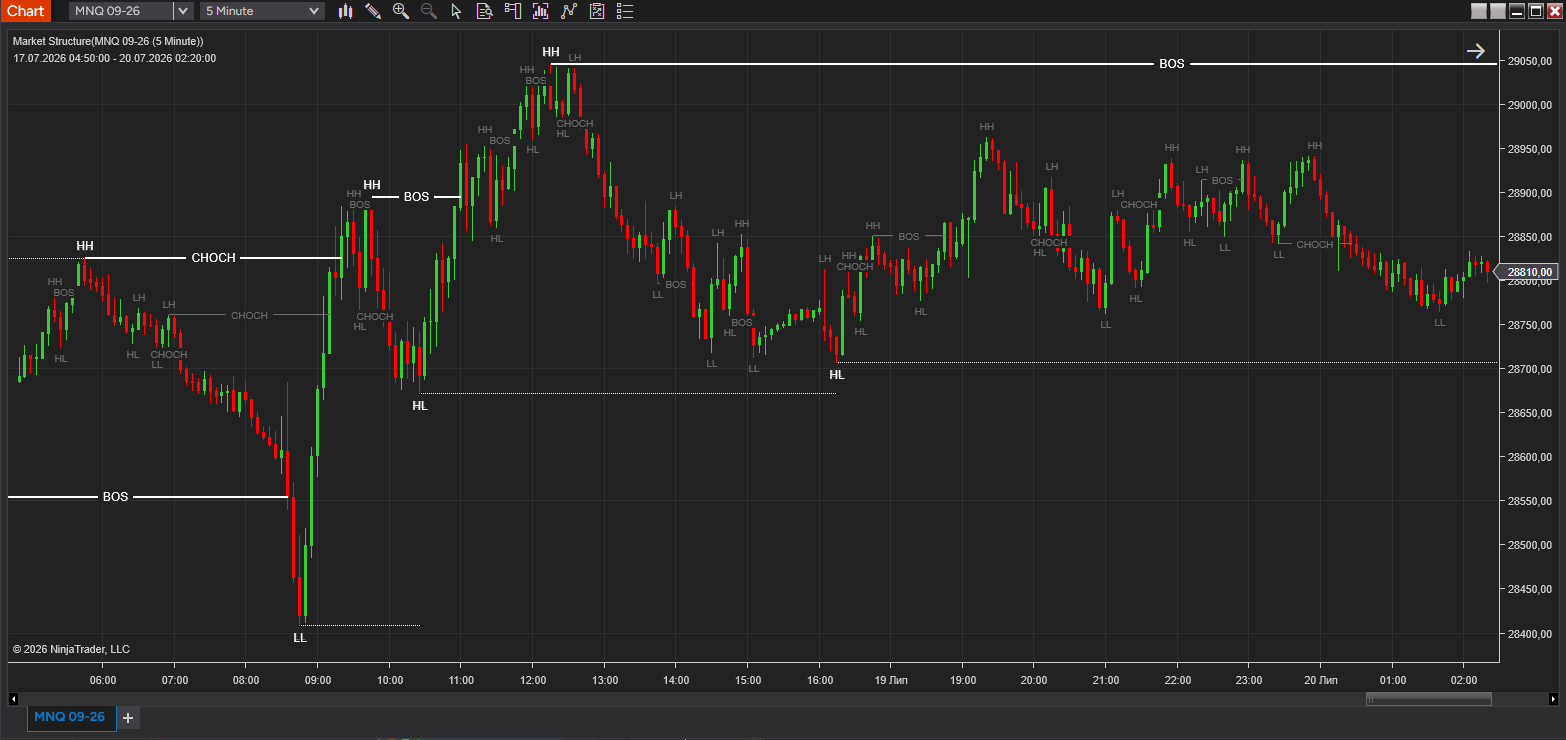
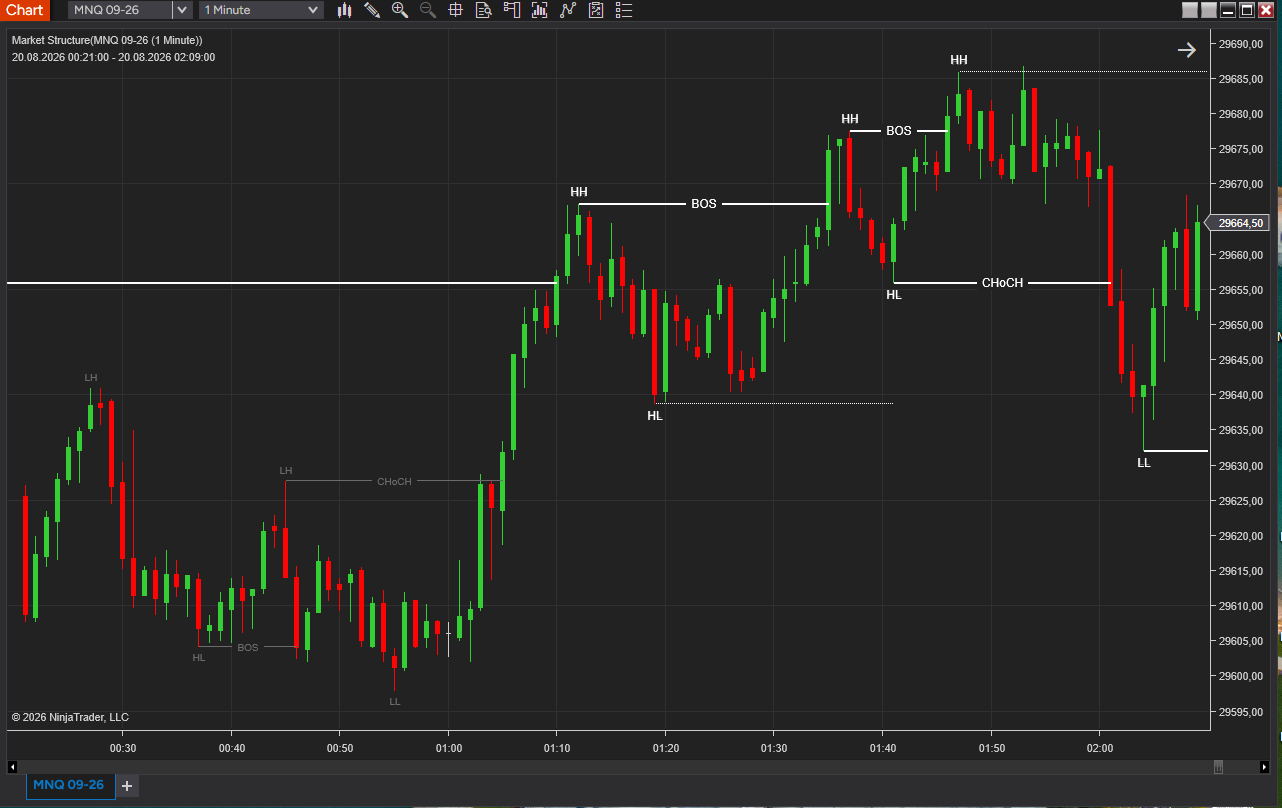
Update Market Structure: Internal/Swing terminology, Weak Swings,

diff --git a/market-structure.html b/market-structure.html
@@ -4,12 +4,12 @@
 <meta charset="UTF-8">
 <meta name="viewport" content="width=device-width, initial-scale=1.0">
 <title>Market Structure Indicator for NinjaTrader 8 | Yevhen Solod</title>
-<meta name="description" content="Market Structure indicator for NinjaTrader 8: dual-tier Minor/Major swing detection, BOS and CHoCH confirmed strictly by candle close. No ATR, no lookback, no fractals. Free 1-day trial.">
+<meta name="description" content="Market Structure indicator for NinjaTrader 8: dual-tier Internal/Swing structure detection, BOS and CHoCH confirmed strictly by candle close, Weak Swing pullback confirmation. No ATR, no lookback, no fractals. Free 1-day trial.">
 <link rel="canonical" href="https://yevhensolod.studio/market-structure.html">
 
 <meta property="og:type" content="product">
 <meta property="og:title" content="Market Structure Indicator for NinjaTrader 8">
-<meta property="og:description" content="Pure price-action BOS/CHoCH market structure, Minor + Major tiers, no repaint. Free 1-day trial.">
+<meta property="og:description" content="Pure price-action BOS/CHoCH market structure, Internal + Swing tiers, Weak Swing confirmation, no repaint. Free 1-day trial.">
 <meta property="og:image" content="https://yevhensolod.studio/og-marketstructure.png">
 <meta property="og:url" content="https://yevhensolod.studio/market-structure.html">
 <meta name="twitter:card" content="summary_large_image">
@@ -19,13 +19,14 @@
   "@context": "https://schema.org",
   "@type": "Product",
   "name": "Market Structure Indicator for NinjaTrader 8",
-  "description": "Pure price-action market structure indicator for NinjaTrader 8. Dual-tier Minor/Major swing detection with BOS and CHoCH confirmed strictly by candle close. No ATR, no lookback period, no fractals.",
+  "description": "Pure price-action market structure indicator for NinjaTrader 8. Dual-tier Internal/Swing swing detection with BOS and CHoCH confirmed strictly by candle close, plus Weak Swing pullback confirmation. No ATR, no lookback period, no fractals.",
   "image": "https://yevhensolod.studio/og-marketstructure.png",
+  "sku": "MST-NT8-69",
   "brand": { "@type": "Brand", "name": "Yevhen Solod" },
   "offers": {
     "@type": "Offer",
     "url": "https://solodyn.gumroad.com/l/marketstructure",
-    "price": "99.00",
+    "price": "69.00",
     "priceCurrency": "USD",
     "availability": "https://schema.org/InStock"
   }
@@ -43,8 +44,13 @@
     },
     {
       "@type": "Question",
-      "name": "What's the difference between Minor and Major structure?",
-      "acceptedAnswer": { "@type": "Answer", "text": "Minor is internal structure — every swing as it forms. Major filters that down to swing-level structure. Both run independently and can be toggled and styled separately." }
+      "name": "What's the difference between Internal and Swing structure?",
+      "acceptedAnswer": { "@type": "Answer", "text": "Internal is every swing as it forms, updated candle by candle. Swing filters that down to higher-level structure. Both run independently and can be toggled and styled separately." }
+    },
+    {
+      "@type": "Question",
+      "name": "What are Weak Swings?",
+      "acceptedAnswer": { "@type": "Answer", "text": "A Weak Swing is a candidate high or low that hasn't been confirmed yet — shown as a dotted line. It locks in once price pulls back against it for 3 bars." }
     },
     {
       "@type": "Question",
@@ -169,16 +175,16 @@ a:hover{opacity:.8}
 <section class="hero">
 <div class="container">
 <h1>Market Structure Indicator for NinjaTrader 8</h1>
-<p class="sub">Tracks swing highs and lows the way price actually moves — candle by candle, confirming BOS and CHoCH only when a candle closes beyond the prior level. No ATR, no fixed lookback window, no fractals.</p>
+<p class="sub">Tracks swing highs and lows the way price actually moves — candle by candle, across two independent tiers, confirming BOS and CHoCH only when a candle closes beyond the prior level. No ATR, no fixed lookback window, no fractals.</p>
 <div class="product-tags">
-<span class="tag green">Minor</span>
-<span class="tag blue">Major</span>
+<span class="tag green">Internal</span>
+<span class="tag blue">Swing</span>
 <span class="tag orange">BOS</span>
 <span class="tag purple">CHoCH</span>
+<span class="tag">Weak Swings</span>
 <span class="tag">No Repaint</span>
-<span class="tag">No ATR</span>
 </div>
-<p class="price-line">$99</p>
+<p class="price-line">$69</p>
 <div class="btn-group">
 <a href="https://solodyn.gumroad.com/l/marketstructure" class="btn btn-primary" target="_blank">Get on Gumroad</a>
 <a href="downloads/MarketStructure.zip" class="btn btn-trial" download>Try for free</a>
@@ -191,7 +197,7 @@ a:hover{opacity:.8}
 <section class="section">
 <div class="container">
 <div class="shot">
-<img src="screens/market-structure-main.png" alt="Market Structure indicator on a NinjaTrader 8 chart showing Minor and Major BOS and CHoCH labels" loading="lazy">
+<img src="screens/market-structure-main.png" alt="Market Structure indicator on a NinjaTrader 8 chart showing Internal and Swing BOS and CHoCH labels" loading="lazy">
 </div>
 </div>
 </section>
@@ -202,12 +208,12 @@ a:hover{opacity:.8}
 <div class="section-title">What it detects</div>
 <div class="features">
 <div class="feature">
-<h3>Minor (internal) structure</h3>
+<h3>Internal structure</h3>
 <p>Every swing high and low as price forms them — HH, LH, HL, LL — updated candle by candle, no repainting.</p>
 </div>
 <div class="feature">
-<h3>Major (swing) structure</h3>
-<p>Minor structure filters automatically into higher-level swing structure, so you see both the noise and the signal on the same chart.</p>
+<h3>Swing structure</h3>
+<p>Internal structure filters automatically into higher-level swing structure, so you see both the noise and the signal on the same chart.</p>
 </div>
 <div class="feature">
 <h3>BOS — Break of Structure</h3>
@@ -218,12 +224,12 @@ a:hover{opacity:.8}
 <p>Confirms a trend reversal the moment a candle closes beyond the opposing swing level.</p>
 </div>
 <div class="feature">
-<h3>No ATR, no lookback, no fractals</h3>
-<p>Structure is derived purely from price — no multiplier or period to tune, no "right" swing size to guess at.</p>
+<h3>Weak Swings</h3>
+<p>Unconfirmed swing points shown as a dotted line until a 3-bar pullback locks them in — so you're not anchoring on a swing the market hasn't committed to.</p>
 </div>
 <div class="feature">
-<h3>Fully configurable rendering</h3>
-<p>Independent font, color and line style for Minor structure, Major structure, and unconfirmed Weak Swings.</p>
+<h3>Independent alerts per tier</h3>
+<p>Separate sound alerts for Internal structure change and Swing structure change, plus fully configurable fonts, colors and line styles per tier.</p>
 </div>
 </div>
 </div>
@@ -234,8 +240,8 @@ a:hover{opacity:.8}
 <div class="container">
 <div class="section-title">Why price-action-only structure</div>
 <p>Most market structure indicators lean on ATR multipliers or fixed lookback windows to decide what counts as a swing — which means the same chart can show a different structure depending on a setting, and everything repaints as that setting gets tuned.</p>
-<p>Market Structure works the other way: a swing high or low is only ever confirmed when a candle <strong>closes</strong> beyond it. Nothing is inferred from volatility, nothing is assumed from a fixed number of bars. What you see on a closed bar does not change on a later bar.</p>
-<p>Typical uses: reading trend direction objectively without discretionary swing-drawing, spotting CHoCH reversals early, and using Minor structure as a faster-reacting layer underneath Major swing context.</p>
+<p>Market Structure works the other way: a swing high or low is only ever confirmed when a candle <strong>closes</strong> beyond it. Nothing is inferred from volatility, nothing is assumed from a fixed number of bars. What you see on a closed bar does not change on a later bar — and Weak Swings keep unconfirmed points visually distinct until they actually earn confirmation.</p>
+<p>Typical uses: reading trend direction objectively without discretionary swing-drawing, spotting CHoCH reversals early, and using Internal structure as a faster-reacting layer underneath Swing-level context.</p>
 </div>
 </section>
 
@@ -261,8 +267,12 @@ a:hover{opacity:.8}
 <p>No. Swing points and BOS/CHoCH are confirmed purely by candle close — no ATR multiplier, no fixed lookback, no fractals to configure.</p>
 </div>
 <div class="faq-item">
-<h3>What's the difference between Minor and Major structure?</h3>
-<p>Minor is internal structure — every swing as it forms. Major filters that down to swing-level structure. Both run independently and can be toggled and styled separately.</p>
+<h3>What's the difference between Internal and Swing structure?</h3>
+<p>Internal is every swing as it forms, updated candle by candle. Swing filters that down to higher-level structure. Both run independently and can be toggled and styled separately.</p>
+</div>
+<div class="faq-item">
+<h3>What are Weak Swings?</h3>
+<p>A Weak Swing is a candidate high or low that hasn't been confirmed yet — shown as a dotted line. It locks in once price pulls back against it for 3 bars.</p>
 </div>
 <div class="faq-item">
 <h3>Does it repaint?</h3>
@@ -280,9 +290,9 @@ a:hover{opacity:.8}
 <div class="container">
 <div class="cta">
 <h2>Get Market Structure</h2>
-<p>Minor + Major swing structure, BOS/CHoCH, no repaint · Lifetime license · Support included</p>
+<p>Internal + Swing structure, BOS/CHoCH, Weak Swing confirmation, no repaint · Lifetime license · Support included</p>
 <div class="btn-group" style="justify-content:center">
-<a href="https://solodyn.gumroad.com/l/marketstructure" class="btn btn-primary" target="_blank">Get on Gumroad — $99</a>
+<a href="https://solodyn.gumroad.com/l/marketstructure" class="btn btn-primary" target="_blank">Get on Gumroad — $69</a>
 <a href="downloads/MarketStructure.zip" class="btn btn-trial" download>Try free for 1 day</a>
 </div>
 </div>

diff --git a/index.html b/index.html
@@ -167,16 +167,16 @@ a:hover{opacity:.8}
 <div class="product">
 <div class="product-header">
 <h3><a href="market-structure.html" style="color:inherit">Market Structure</a></h3>
-<span class="product-price">$99</span>
+<span class="product-price">$69</span>
 </div>
-<p>Pure price-action Minor/Major swing structure indicator. BOS and CHoCH confirmed strictly by candle close — no ATR, no lookback period, no fractals.</p>
+<p>Pure price-action Internal/Swing structure indicator. BOS and CHoCH confirmed strictly by candle close, with Weak Swing pullback confirmation — no ATR, no lookback period, no fractals.</p>
 <div class="product-tags">
-<span class="tag green">Minor</span>
-<span class="tag blue">Major</span>
+<span class="tag green">Internal</span>
+<span class="tag blue">Swing</span>
 <span class="tag orange">BOS</span>
 <span class="tag purple">CHoCH</span>
+<span class="tag">Weak Swings</span>
 <span class="tag">No Repaint</span>
-<span class="tag">No ATR</span>
 </div>
 <div class="btn-group">
 <a href="https://solodyn.gumroad.com/l/marketstructure" class="btn btn-primary" target="_blank">Get on Gumroad</a>
